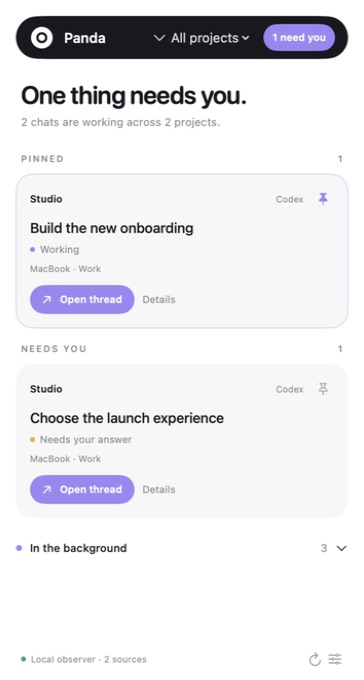
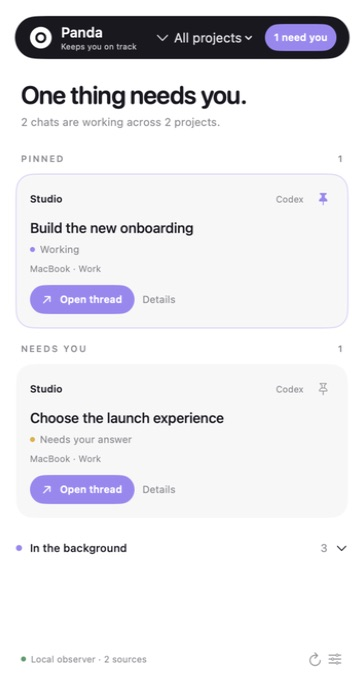
Add Keeps you on track beneath the Panda name

Changed region(s): [[0.0302, 0.0309, 0.3929, 0.0926], [0.7253, 0.0309, 0.967, 0.0926], [0.4231, 0.0309, 0.6951, 0.0618]]

diff --git a/Sources/Panda/PanelView.swift b/Sources/Panda/PanelView.swift
@@ -19,9 +19,12 @@ struct PanelView: View {
     private var needsCount: Int { store.sessions.filter { store.preferences.needsAttention($0) }.count }
     var body: some View {
         VStack(spacing: 0) {
-            HStack(spacing: 9) {
+            HStack(spacing: 7) {
                 Image(systemName: "circle.circle.fill").font(.system(size: 21, weight: .bold))
-                Text("Panda").font(.system(size: 14, weight: .semibold))
+                VStack(alignment: .leading, spacing: 1) {
+                    Text("Panda").font(.system(size: 14, weight: .semibold))
+                    Text("Keeps you on track").font(.system(size: 8)).foregroundStyle(.white.opacity(0.72))
+                }.fixedSize(horizontal: true, vertical: false)
                 Spacer(minLength: 2)
                 Menu {
                     Button("All projects") { project = "" }
@@ -31,7 +34,7 @@ struct PanelView: View {
                 } label: {
                     HStack(spacing: 4) { Text(project.isEmpty ? "All projects" : store.sessions.first(where: { $0.projectKey == project }).map { store.preferences.projectName($0) } ?? "Project").lineLimit(1); Image(systemName: "chevron.down").font(.system(size: 8)) }.font(.system(size: 10))
                 }.menuStyle(.borderlessButton).environment(\.colorScheme, .dark).fixedSize().frame(maxWidth: 105)
-                Text("\(needsCount) need you").font(.system(size: 10, weight: .semibold)).foregroundStyle(.white).padding(.horizontal, 9).padding(.vertical, 7).background(lavender, in: Capsule())
+                Text("\(needsCount) need you").font(.system(size: 10, weight: .semibold)).lineLimit(1).fixedSize(horizontal: true, vertical: false).foregroundStyle(.white).padding(.horizontal, 9).padding(.vertical, 7).background(lavender, in: Capsule())
             }.foregroundStyle(.white).padding(.horizontal, 13).frame(height: 43).background(ink, in: Capsule()).padding(16)
             HStack(alignment: .top) {
                 VStack(alignment: .leading, spacing: 6) {

diff --git a/Sources/PandaCore/Models.swift b/Sources/PandaCore/Models.swift
@@ -1,7 +1,7 @@
 import Foundation
 import CryptoKit
 
-public let pandaVersion = "0.2.0"
+public let pandaVersion = "0.2.1"
 public let pandaProtocolVersion = 1
 
 public enum Provider: String, Codable, CaseIterable { case claude, codex

diff --git a/README.md b/README.md
@@ -1,12 +1,12 @@
 # Panda
 
-**Keep your agent work in sight. Know when it needs you.**
+**Keeps you on track**
 
 Panda is a small native macOS panel for people working across Claude Code and Codex conversations. It gathers observed activity into one place, groups tasks by repository, and brings questions and finished turns to your attention. Keep it beside your work, pin what matters, and jump back into a supported conversation when it is time to respond.
 
 Previously called Pulse. Existing settings and pins carry over.
 
-**Current version: 0.2.0 · Public preview · Apple Silicon · macOS 13+**
+**Current version: 0.2.1 · Public preview · Apple Silicon · macOS 13+**
 
 <p align="center">
   <img src="docs/screenshots/attention.jpg" alt="Panda attention panel with a pinned working task and a task that needs an answer" width="364">
@@ -61,7 +61,7 @@ Labels accompany the dots. Cards stay neutral, and lavender controls use white t
   <img src="docs/screenshots/notification-glow.jpg" alt="Panda showing a soft lavender halo around the newest task needing attention, with a faint outline and neutral card surface" width="364">
 </p>
 
-The newest attention item glows softly for 30 seconds, with an eight-second breathing cycle and a gentle fade. This still image captures the glow in Panda 0.2.0; the pin above it keeps its usual subtle outline.
+The newest attention item glows softly for 30 seconds, with an eight-second breathing cycle and a gentle fade. This still image captures the glow in Panda 0.2.1; the pin above it keeps its usual subtle outline.
 
 All screenshots use sample data. [Screenshot notes](docs/screenshots/README.md).
 

diff --git a/VALIDATION.md b/VALIDATION.md
@@ -89,3 +89,10 @@ The app currently runs from `dist/Pulse.app`. No provider hook, daemon, approval
 - All **31 tests passed**, including new compatibility coverage for the data path and both environment overrides. Release build and local signature verification passed; both collector names report 0.2.0.
 - The real Panda app launched successfully. Hashes of existing preferences, pinned-task cache and machine identity were unchanged after launch. The old local `Pulse.app` shortcut resolves to `Panda.app`; the previous build was retained in ignored local build output. Login-at-login behavior across a full reboot was not exercised.
 - This is a naming/compatibility update; the issues identified by the prior code review remain unresolved.
+
+
+## Brand subline — 0.2.1
+
+- Added “Keeps you on track” directly beneath Panda in the compact header and as the README subline. Tightened header spacing and kept the attention count on one line.
+- Release build and local signature verification passed. Native sample-data inspection confirmed the full subline, project selector and one-line count fit at the default 364-point panel width. Refreshed the header-bearing README screenshots.
+- Presentation-only change. The 31-test suite was last run for 0.2.0; it was not rerun for this text/layout adjustment.

diff --git a/docs/screenshots/README.md b/docs/screenshots/README.md
@@ -2,11 +2,11 @@
 
 These images show the native Panda interface with fictional sample tasks, projects and profile labels. They are UI illustrations, not evidence of live account connections, running agents or GitHub synchronization.
 
-- `attention.jpg` (0.2.0): a pinned active task and a question needing attention.
-- `background.jpg` (0.2.0): the background list with active, waiting and reviewed tasks.
+- `attention.jpg` (0.2.1): a pinned active task and a question needing attention.
+- `background.jpg` (0.2.1): the background list with active, waiting and reviewed tasks.
 - `task-details.jpg` (0.2.0): a sample question, its context and task controls.
 
-- `notification-glow.jpg` (0.2.0): the newest attention item with the softer outline and stronger lavender halo. This is a still frame of the 30-second animation.
+- `notification-glow.jpg` (0.2.1): the newest attention item with the softer outline and stronger lavender halo. This is a still frame of the 30-second animation.
 
 Captured on macOS from an isolated copy of the app using the production panel views. The screenshot copy replaces live collection with an in-memory fixture and uses a separate data directory. No production UI styling was changed for these captures. The user's running Panda instance and its settings were preserved.
 

diff --git a/docs/COVERAGE.md b/docs/COVERAGE.md
@@ -1,6 +1,6 @@
 # Coverage and limitations
 
-Panda 0.2.0 is a local preview. These limits describe the implementation, not a promise of future delivery.
+Panda 0.2.1 is a local preview. These limits describe the implementation, not a promise of future delivery.
 
 ## Known coverage limits
 
